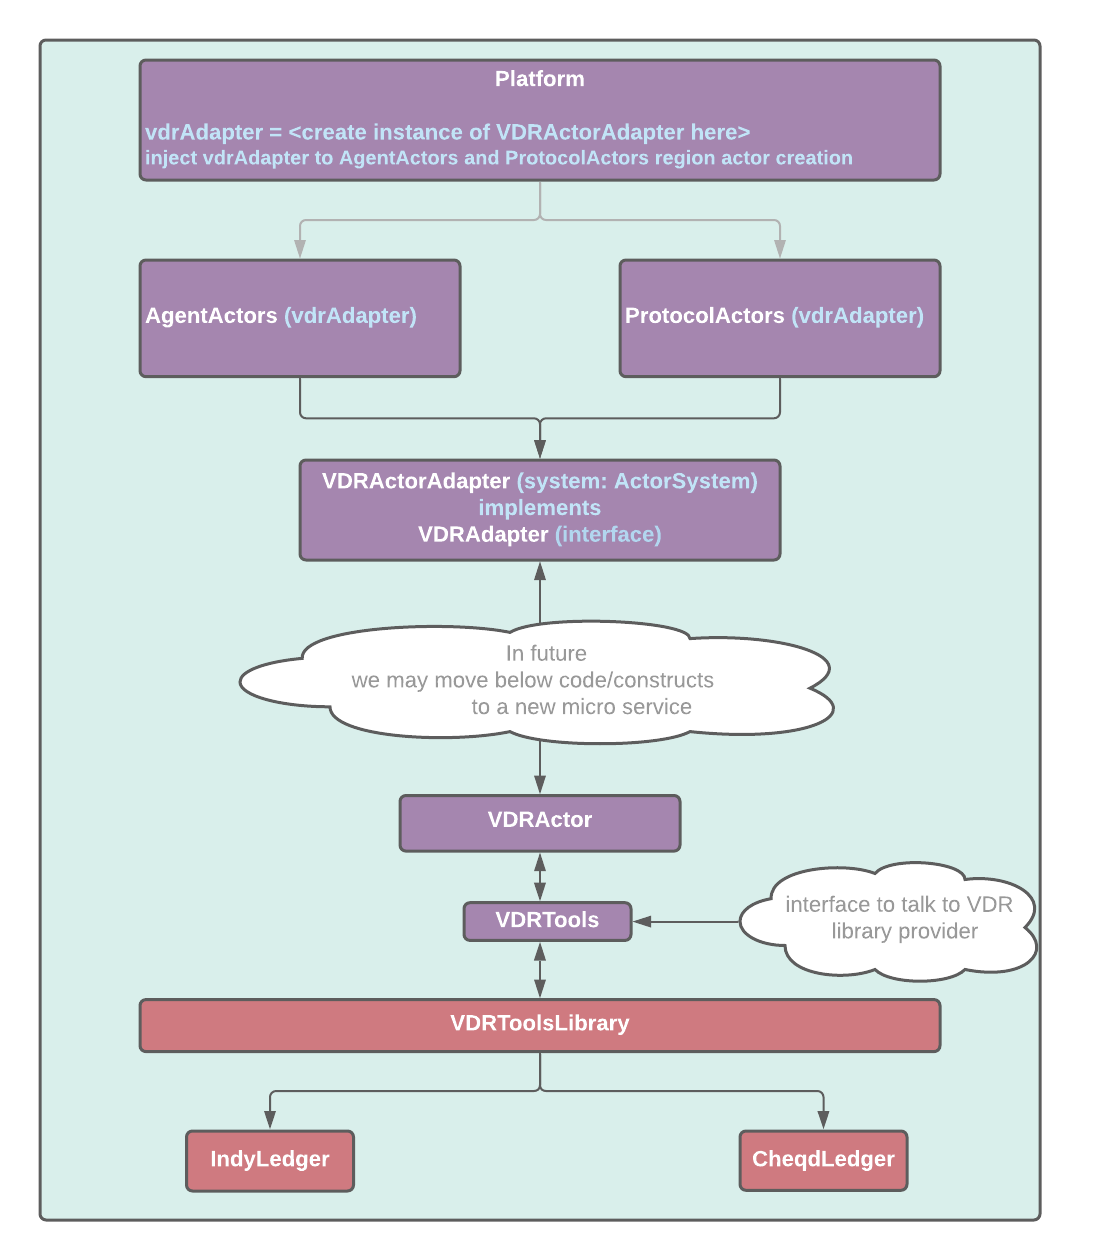
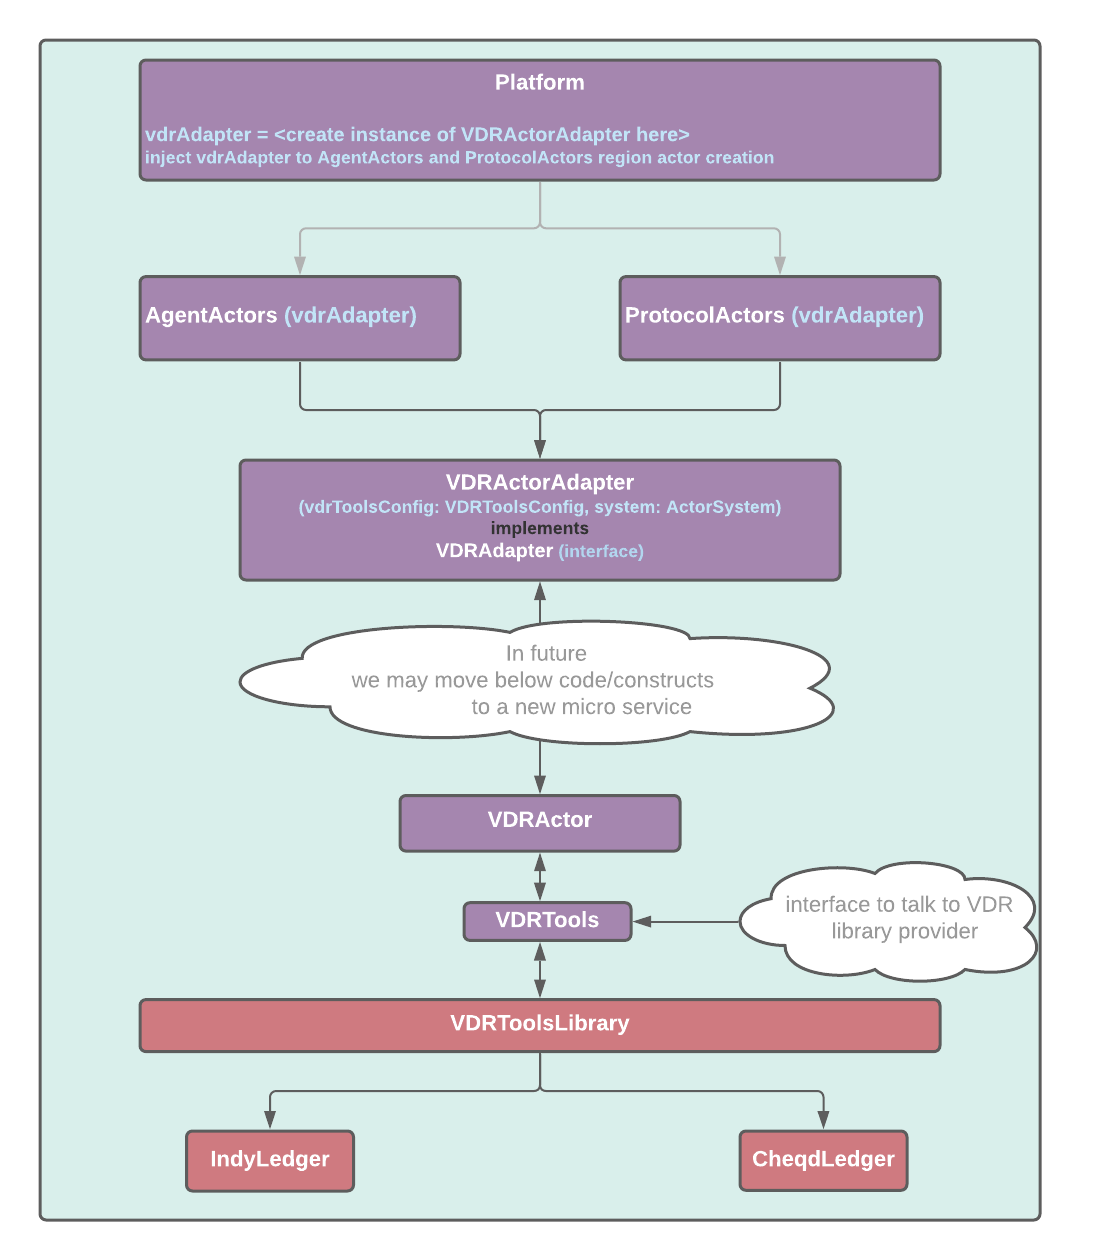
add VDR initialization support

Changed region(s): [[0.1242, 0.0619, 0.8694, 0.2476], [0.2174, 0.3405, 0.7763, 0.4643], [0.1242, 0.2786, 0.8694, 0.3405]]

diff --git a/docs/verifiable-data-registry/PoA.md b/docs/verifiable-data-registry/PoA.md
@@ -42,6 +42,8 @@ verity {
 
 2. Create `VDRActorAdapter` (implements `VDRAdapter` interface) in Platform
    * Constructor parameters
+     * vdrCreator: CreateVDR
+     * vdrToolsConfig: VDRToolsConfig
      * actorSystem: supplied from Platform
    * Implementation detail
      * creates instance of VDRActor as part of its initialization
@@ -95,7 +97,7 @@ verity {
 
 2. Create `VDRActorAdapter`
    ```
-   class VDRActorAdapter(system: ActorSystem) 
+   class VDRActorAdapter(vdrCreator: CreateVDR, vdrToolsConfig: VDRToolsConfig, system: ActorSystem) 
      extends VDRAdapter {
       val vdrActorRef = <spawn actor here>
    }

diff --git a/verity/src/main/scala/com/evernym/verity/vdr/service/README.md b/verity/src/main/scala/com/evernym/verity/vdr/service/README.md
@@ -1,0 +1,1 @@
+Any code put inside this package is potential candidate to be considered as a micro-service in future.
